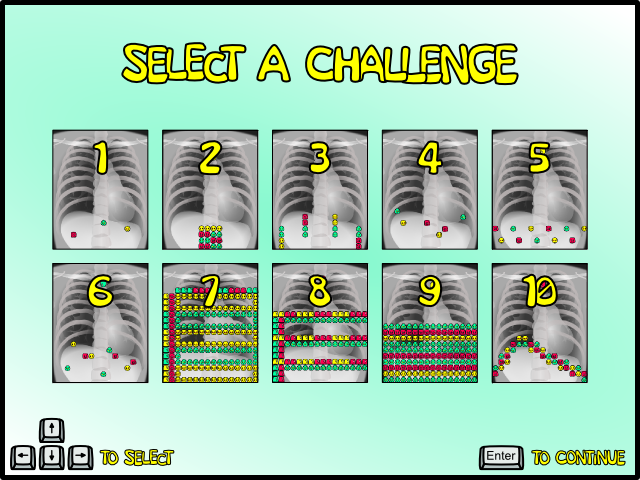
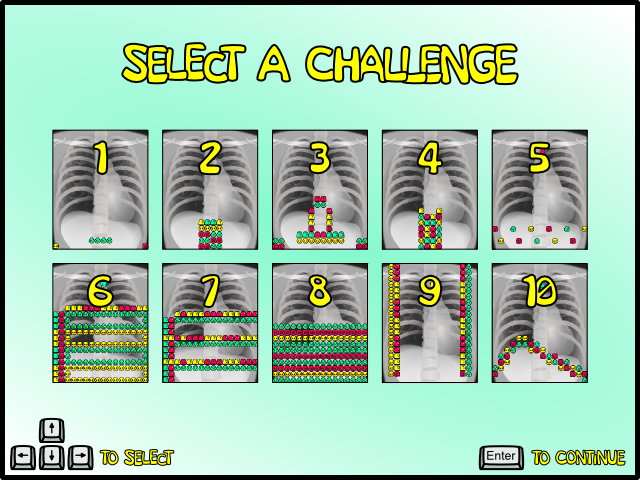
balanced out the score system and redid most of the levels to get a nicer progression. we also have a few more reported things on kongregate now and they ought to work alright.

diff --git a/js/stage.js b/js/stage.js
@@ -61,23 +61,28 @@ Stage.prototype.draw_score = function () {
     } else if (game.playmode == 1) {
 	draw_text(game.survive, [0.19*canvas.width,0.206*canvas.height], "rgb(0,0,0)", "18px Helvetica");
     }
+    var subtotal = (game.points.pharma + game.points.combos + game.points.highdos + game.points.speed);
     draw_text(randN(1000000), [0.36*canvas.width,0.261*canvas.height], "rgb(0,0,0)", "18px Helvetica");
     draw_text('$'+game.points.standing, [0.36*canvas.width,0.3025*canvas.height], "rgb(0,0,0)", "18px Helvetica");
     draw_text('$'+game.points.pharma, [0.36*canvas.width,0.351*canvas.height], "rgb(0,0,0)", "18px Helvetica");
     draw_text('$'+game.points.combos, [0.36*canvas.width,0.390*canvas.height], "rgb(0,0,0)", "18px Helvetica");
     draw_text('$'+game.points.highdos, [0.36*canvas.width,0.430*canvas.height], "rgb(0,0,0)", "18px Helvetica");
     draw_text('$'+game.points.speed, [0.36*canvas.width,0.472*canvas.height], "rgb(0,0,0)", "18px Helvetica");
-    draw_text('$'+ (game.points.pharma + game.points.combos + game.points.highdos + game.points.speed), [0.36*canvas.width,0.523*canvas.height],
+    draw_text('$'+ subtotal, [0.36*canvas.width,0.523*canvas.height],
 	      "rgb(0,0,0)", "18px Helvetica");
     draw_text('$'+game.points.points(), [0.36*canvas.width,0.586*canvas.height], "rgb(0,0,0)", "18px Helvetica");
-    if (parent.kongregate != undefined) {
-	parent.kongregate.stats.submit("Max_score_ch" + (game.level+1),game.points.points());
+    if (parent.kongregate != undefined && !game.handicap) {
+	if (game.playmode == 0) {
+	    parent.kongregate.stats.submit("Score_Lvl" + (game.level+1),subtotal);
+	} else if (game.playmode == 1) {
+	    parent.kongregate.stats.submit("Score_Survival",game.points.points());
+	}
     }
 };
 Stage.prototype.get_fall_rate = function () {
     var ending = cfg.user_fall_rate_end[game.pillspeed],beginning = cfg.user_fall_rate_start[game.pillspeed];
     return (ending - beginning)*
-	(Date.now() - this.begin_level)/(10*60*1000) + beginning;
+	(Date.now() - this.begin_level)/(15*60*1000) + beginning;
 };
 Stage.prototype.new_challenge = function (level) {
     var virus_key = "ytm";
@@ -110,14 +115,12 @@ Stage.prototype.levels = [
     "................",
     "................",
     "................",
-    "........t.......",
-    "............y...",
-    "...m............",
-    "................",
-    "................"],
-    ["................",
     "................",
     "................",
+    "................",
+    "......tttt......",
+    "y..............m"],
+   ["................",
     "................",
     "................",
     "................",
@@ -131,11 +134,33 @@ Stage.prototype.levels = [
     "................",
     "................",
     "................",
+    "................",
+    "......0110......",
     "......yyyy......",
     "......mmtt......",
     "......ttmm......",
     "......mmtt......"],
-    ["................",
+   ["................",
+    "................",
+    "................",
+    "................",
+    "................",
+    "................",
+    "................",
+    "................",
+    "................",
+    "................",
+    "................",
+    ".......22.......",
+    ".......tt.......",
+    "......2..2......",
+    "......0..0......",
+    "......0..0......",
+    "......m..m......",
+    "....11122111....",
+    "tt..yyyyyyyy..tt",
+    "mm............mm"],
+   ["................",
     "................",
     "................",
     "................",
@@ -148,33 +173,13 @@ Stage.prototype.levels = [
     "................",
     "................",
     "................",
-    "................",
-    ".....m....y.....",
-    ".....m....y.....",
-    ".t...t....t...t.",
-    ".t...t....t...t.",
-    ".y............m.",
-    ".y............m."],
-    ["................",
-    "................",
-    "................",
-    "................",
-    "................",
-    "................",
-    "................",
-    "................",
-    "................",
-    "................",
-    "................",
-    "................",
-    "................",
-    "..t.............",
-    ".............t..",
-    "...y...m........",
-    "..........m.....",
-    ".........y......",
-    "................",
-    "................"],
+    "......0..0......",
+    "......t20m......",
+    "......y11y......",
+    "......m02t......",
+    "......m02t......",
+    "......y11y......",
+    "......t20m......"],
     ["................",
     "................",
     "................",
@@ -195,34 +200,14 @@ Stage.prototype.levels = [
     "................",
     ".y..m..t..y..m..",
     "................"],
-    ["................",
-    "................",
-    "................",
-    "................",
-    "................",
-    "................",
-    "................",
-    "................",
-    "................",
-    "................",
-    "................",
-    "................",
-    "................",
-    "...y............",
-    ".........t......",
-    ".....my...m.....",
-    ".............m..",
-    "..t.........y...",
-    "........t.......",
-    "................"],
    ["................",
     "................",
     "................",
     "................",
-    "..11122211122211",
-    "0myyyyyyyyyyyyyy",
-    "0my............y",
-    "0myyyyyyyyyyyyyy",
+    "................",
+    "................",
+    "................",
+    "..00022200022200",
     "1mtttttttttttttt",
     "1mt............t",
     "1mtttttttttttttt",
@@ -243,7 +228,7 @@ Stage.prototype.levels = [
     "................",
     "................",
     "................",
-    "0022000222000222",
+    "..02000222000222",
     "12tttttttttttttt",
     "12..............",
     "12..............",
@@ -275,6 +260,26 @@ Stage.prototype.levels = [
     "mmmmmmmmmmmmmmmm",
     "yyyyyyyyyyyyyyyy",
     "tttttttttttttttt"],
+   [".y2..........2t.",
+    ".y2..........2t.",
+    ".y2..........2t.",
+    ".y0..........0t.",
+    ".y0..........0t.",
+    ".y0..........0t.",
+    ".y2..........2t.",
+    ".y2..........2t.",
+    ".y2..........2t.",
+    ".y0..........0t.",
+    ".y0..........0t.",
+    ".y0..........0t.",
+    ".y2..........2t.",
+    ".y2..........2t.",
+    ".y2..........2t.",
+    ".y0..........0t.",
+    ".y0..........0t.",
+    ".y0..........0t.",
+    ".ym..........mt.",
+    "................"],
     ["................",
     "................",
     "................",
@@ -484,8 +489,10 @@ Stage.prototype.end_stage = function (won) {
 	if (game.challenges.reduce(function (x,y) {return x && y;})) {
 	    ctx.drawImage(bgIms.complete.image, 0, 0);
 	    game.playmode = 1;
-	    if (parent.kongregate != undefined) {
-		parent.kongregate.stats.submit("Max_completed",1);
+	    if (parent.kongregate != undefined && !game.handicap) {
+		parent.kongregate.stats.submit("GameComplete",1);
+		parent.kongregate.stats.submit("CompleteTime",Math.round((Date.now()-game.start_game)/60));
+		console.log("CompleteTime "+Math.round((Date.now()-game.start_game)/60));
 	    }
 	}
     }

diff --git a/js/drmike.js b/js/drmike.js
@@ -146,11 +146,9 @@ Board.prototype.kill_matches = function (matches) {
 	    this[matches[i][j][0]][matches[i][j][1]] = addedSplode;
 	}
 	game.points.pharma += 1000;
-	game.points.combos += 1000*(game.combo-1);
-	game.combo *= 2;
-	if (matches[i].length > 4) {
-	    game.points.highdos += 500;
-	}
+	game.points.combos += Math.round(1000*(game.combo-1)/10)*10;
+	game.combo *= 1.1;
+	game.points.highdos += Math.round((1000*Math.pow(1.1,matches[i].length-4) - 1000)/10)*10;
     }
     return this.obtain_elements();
 }
@@ -547,7 +545,7 @@ var Points = function () {
     this.speed = 0;
 };
 Points.prototype.speed_bonus = function () {
-    var val = 1000 - 1000*(Date.now() - stage.begin_level)/(10*60*1000);
+    var val = Math.round(10000*(1 - (Date.now() - stage.begin_level)/(10*60*1000))/10)*10;
     if (val < 0) {
 	val = 0;
     }
@@ -605,7 +603,7 @@ var sliderIms = [new Sprite("images/slider1.png"), new Sprite("images/slider2.pn
 // game objects
 var cfg = {
     user_fall_rate_start : [150,400,400], // how long between falls at beginning
-    user_fall_rate_end : [150,150,400], // at end
+    user_fall_rate_end : [50,50,400], // at end
     grav_fall_rate : 125, // how long between falls
     fast_move : 25, // how long between moves in fast mode
     fast_start : 200, // how long to press down before fast mode
@@ -617,6 +615,7 @@ var cfg = {
 var game = {
     state:GAME_LOAD,
     last_update:Date.now(),
+    start_game:Date.now(),
     reproduce : false,
     points : new Points(),
     combo : 1,
@@ -627,6 +626,7 @@ var game = {
     pillspeed : 1,
     virspeed : 1,
     playmode : 0,
+    handicap: false,
     challenges : repeatN(false,10) // challenges completed
 };
 

diff --git a/js/menu.js b/js/menu.js
@@ -44,6 +44,11 @@ Menu.prototype.callback = function () {
     }
 };
 Menu.prototype.main = function () {
+    if (parent.kongregate != undefined) {
+	parent.kongregate.stats.submit("loaded",1);
+    }
+    game.points.standing = 0;
+    game.points.reset();
     if (! this.wait_for([bgIms.intro,virusIms,bgIms.loadtext])) {
 	return;
     }
@@ -171,6 +176,9 @@ Menu.prototype.options = function () {
     if (KEY.en in input.keyEvent) {
 	delete input.keyEvent[KEY.en];
 	this.state = this.main;
+	if (game.pillspeed != 1 || game.virspeed != 1) {
+	    game.handicap = true;
+	}
     }
     if (KEY.dn in input.keyEvent) {
 	delete input.keyEvent[KEY.dn];

diff --git a/index.html b/index.html
@@ -8,9 +8,7 @@
 <body>
 <br>
 <div class="center">
-  <span id="warning">
-    Javascript must be enabled to play this game. You'll need to give us an exemption to continue.
-  </span>
+  <p id="warning">This page uses Javascript. If this message stays around, you may need to give us an exemption to continue.</p>
   <canvas width=640 height=480 id="drmike" tabindex="0">no html5 support?</canvas>
   <script src="js/consts.js"></script>
   <script src="js/menu.js"></script>
